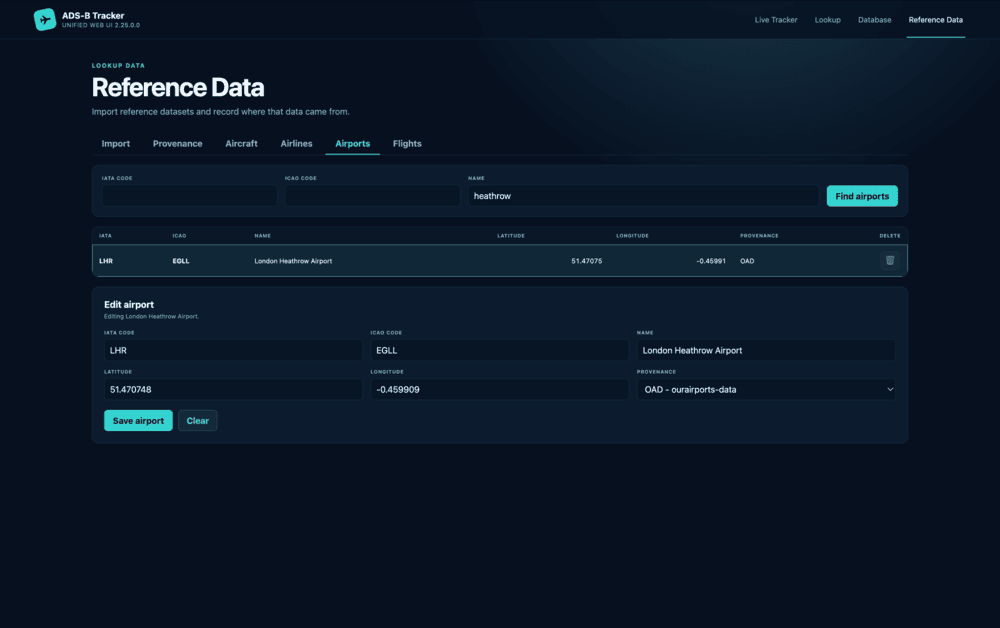
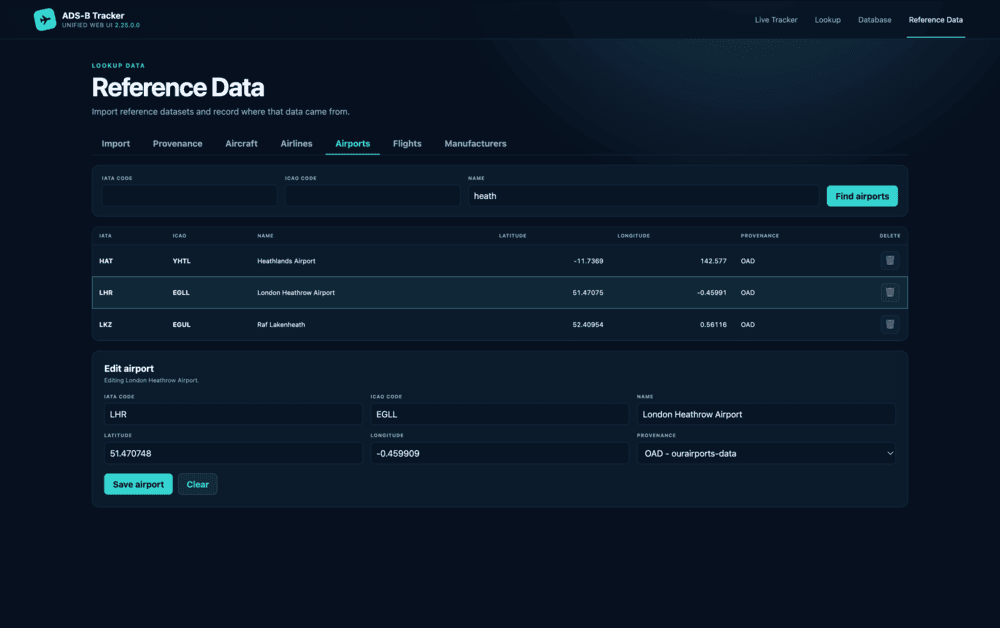
Implement manufacturer reference data maintenance

diff --git a/src/BaseStationReader.TrackerHub/wwwroot/app.css b/src/BaseStationReader.TrackerHub/wwwroot/app.css
@@ -495,6 +495,7 @@ tbody tr.stale { background: rgba(255,113,134,.045); }
 .aircraft-filter input, .provenance-fields select { width: 100%; height: 40px; padding: 8px 10px; color: var(--text); background: #081524; border: 1px solid var(--line); border-radius: 7px; outline: none; font: inherit; line-height: normal; }
 .aircraft-filter input:focus, .provenance-fields select:focus { border-color: var(--cyan); box-shadow: 0 0 0 3px rgba(53,212,208,.12); }
 .airline-filter { grid-template-columns: 1fr 1fr 2fr auto; }
+.manufacturer-filter { grid-template-columns: 1fr auto; }
 .aircraft-table-wrap { max-height: 360px; }
 .editor-read-only { margin: 14px 0 0; color: #ffe4a3; font-size: 11px; }
 
@@ -537,6 +538,7 @@ tbody tr.stale { background: rgba(255,113,134,.045); }
     .provenance-fields { grid-template-columns: 1fr 1fr; }
     .aircraft-filter { grid-template-columns: 1fr 1fr; }
     .airline-filter { grid-template-columns: 1fr 1fr; }
+    .manufacturer-filter { grid-template-columns: 1fr auto; }
     .aircraft-filter .primary-button { grid-column: 1 / -1; }
 }
 
@@ -562,6 +564,7 @@ tbody tr.stale { background: rgba(255,113,134,.045); }
     .provenance-fields label.wide { grid-column: auto; }
     .aircraft-filter { grid-template-columns: 1fr; }
     .airline-filter { grid-template-columns: 1fr; }
+    .manufacturer-filter { grid-template-columns: 1fr; }
     .aircraft-filter .primary-button { grid-column: auto; }
     .plotly-path.scene { min-height: 540px; }
     .radar-tab-heading { align-items: stretch; flex-direction: column; }

diff --git a/src/BaseStationReader.TrackerHub/Services/ManufacturerReferenceService.cs b/src/BaseStationReader.TrackerHub/Services/ManufacturerReferenceService.cs
@@ -1,0 +1,48 @@
+#nullable enable
+
+using BaseStationReader.BusinessLogic.Database;
+using BaseStationReader.Data;
+using BaseStationReader.Entities.Api;
+using BaseStationReader.Interfaces.Logging;
+using Microsoft.EntityFrameworkCore;
+
+namespace BaseStationReader.TrackerHub.Services;
+
+public sealed class ManufacturerReferenceService(
+    IDbContextFactory<BaseStationReaderDbContext> contextFactory,
+    TrackingRuntime runtime,
+    ITrackerLogger logger) : IManufacturerReferenceService
+{
+    public async Task<List<Manufacturer>> FindAsync(
+        string? name,
+        CancellationToken cancellationToken = default)
+    {
+        var cleanName = name?.Trim().ToUpperInvariant() ?? "";
+        await using var context = await contextFactory.CreateDbContextAsync(cancellationToken);
+        return await new DatabaseManagementFactory(logger, context, 0).ManufacturerManager
+            .ListAsync(x => cleanName == "" || x.Name.ToUpper().Contains(cleanName));
+    }
+
+    public async Task<Manufacturer> SaveAsync(
+        Manufacturer manufacturer,
+        CancellationToken cancellationToken = default)
+    {
+        Manufacturer? saved = null;
+        await runtime.ExecuteWhileIdleAsync(async () =>
+        {
+            await using var context = await contextFactory.CreateDbContextAsync(cancellationToken);
+            var manager = new DatabaseManagementFactory(logger, context, 0).ManufacturerManager;
+            saved = manufacturer.Id == 0
+                ? await manager.AddAsync(manufacturer.Name, manufacturer.ProvenanceId)
+                : await manager.UpdateAsync(manufacturer.Id, manufacturer.Name, manufacturer.ProvenanceId);
+        }, cancellationToken);
+        return saved!;
+    }
+
+    public Task DeleteAsync(int id, CancellationToken cancellationToken = default)
+        => runtime.ExecuteWhileIdleAsync(async () =>
+        {
+            await using var context = await contextFactory.CreateDbContextAsync(cancellationToken);
+            await new DatabaseManagementFactory(logger, context, 0).ManufacturerManager.DeleteAsync(id);
+        }, cancellationToken);
+}

diff --git a/src/BaseStationReader.BusinessLogic/Database/ManufacturerManager.cs b/src/BaseStationReader.BusinessLogic/Database/ManufacturerManager.cs
@@ -78,5 +78,30 @@ namespace BaseStationReader.BusinessLogic.Database
 
             return manufacturer;
         }
+
+        public async Task<Manufacturer> UpdateAsync(int id, string name, int provenanceId)
+        {
+            var manufacturer = await _context.Manufacturers.FindAsync(id)
+                ?? throw new InvalidOperationException($"Manufacturer record {id} does not exist.");
+            if (!await _context.Provenance.AnyAsync(x => x.Id == provenanceId))
+                throw new InvalidOperationException($"Provenance record {provenanceId} does not exist.");
+
+            var cleanName = StringCleaner.CleanName(name);
+            if (await _context.Manufacturers.AnyAsync(x => x.Id != id && x.Name == cleanName))
+                throw new InvalidOperationException($"A manufacturer named '{cleanName}' already exists.");
+
+            manufacturer.Name = cleanName;
+            manufacturer.ProvenanceId = provenanceId;
+            await _context.SaveChangesAsync();
+            return await GetAsync(x => x.Id == id);
+        }
+
+        public async Task DeleteAsync(int id)
+        {
+            var manufacturer = await _context.Manufacturers.FindAsync(id)
+                ?? throw new InvalidOperationException($"Manufacturer record {id} does not exist.");
+            _context.Manufacturers.Remove(manufacturer);
+            await _context.SaveChangesAsync();
+        }
     }
 }

diff --git a/src/BaseStationReader.Tests/Database/ManufacturerManagerTest.cs b/src/BaseStationReader.Tests/Database/ManufacturerManagerTest.cs
@@ -65,5 +65,22 @@ namespace BaseStationReader.Tests.Database
             await Assert.ThrowsExactlyAsync<InvalidOperationException>(() =>
                 _manager.AddAsync("Missing provenance", 999));
         }
+
+        [TestMethod]
+        public async Task UpdateTestAsync()
+        {
+            var manufacturer = await _manager.GetAsync(x => x.Name == Name);
+            var updated = await _manager.UpdateAsync(manufacturer.Id, "Boeing", manufacturer.ProvenanceId);
+
+            Assert.AreEqual("Boeing", updated.Name);
+        }
+
+        [TestMethod]
+        public async Task DeleteTestAsync()
+        {
+            var manufacturer = await _manager.GetAsync(x => x.Name == Name);
+            await _manager.DeleteAsync(manufacturer.Id);
+            Assert.IsEmpty(await _manager.ListAsync(x => true));
+        }
     }
 }

diff --git a/src/BaseStationReader.TrackerHub/Program.cs b/src/BaseStationReader.TrackerHub/Program.cs
@@ -167,6 +167,7 @@ namespace BaseStationReader.TrackerHub
                 builder.Services.AddScoped<IAirlineReferenceService, AirlineReferenceService>();
                 builder.Services.AddScoped<IAirportReferenceService, AirportReferenceService>();
                 builder.Services.AddScoped<IFlightReferenceService, FlightReferenceService>();
+                builder.Services.AddScoped<IManufacturerReferenceService, ManufacturerReferenceService>();
                 builder.Services.AddHttpClient<IMapboxStaticMapService, MapboxStaticMapService>(client =>
                     client.Timeout = TimeSpan.FromSeconds(30));
 

diff --git a/src/BaseStationReader.Interfaces/Database/IManufacturerManager.cs b/src/BaseStationReader.Interfaces/Database/IManufacturerManager.cs
@@ -6,6 +6,8 @@ namespace BaseStationReader.Interfaces.Database
     public interface IManufacturerManager
     {
         Task<Manufacturer> AddAsync(string name, int provenanceId = 0);
+        Task<Manufacturer> UpdateAsync(int id, string name, int provenanceId);
+        Task DeleteAsync(int id);
         Task<Manufacturer> GetAsync(Expression<Func<Manufacturer, bool>> predicate);
         Task<List<Manufacturer>> ListAsync(Expression<Func<Manufacturer, bool>> predicate);
     }

diff --git a/src/BaseStationReader.TrackerHub/Services/IManufacturerReferenceService.cs b/src/BaseStationReader.TrackerHub/Services/IManufacturerReferenceService.cs
@@ -1,0 +1,12 @@
+#nullable enable
+
+using BaseStationReader.Entities.Api;
+
+namespace BaseStationReader.TrackerHub.Services;
+
+public interface IManufacturerReferenceService
+{
+    Task<List<Manufacturer>> FindAsync(string? name, CancellationToken cancellationToken = default);
+    Task<Manufacturer> SaveAsync(Manufacturer manufacturer, CancellationToken cancellationToken = default);
+    Task DeleteAsync(int id, CancellationToken cancellationToken = default);
+}

diff --git a/README.md b/README.md
@@ -162,10 +162,14 @@ The **Reference Data** area provides tools for maintaining the locally curated i
 
 - Import
 - Provenance
-- Aircraft
-- Airlines
-- Airports
-- Flights
+- Data Management:
+  - Aircraft
+  - Airlines
+  - Airports
+  - Flights
+  - Manufacturers
+
+The data management tabs allow search, editing, deletion and addition of reference data records. Each record remains linked to a provenance record describing its source. Reference data records remain searchable during live tracking, but cannot be added, changed or deleted until the session ends.
 
 The **Aircraft**, **Airlines**, **Airports** and **Flights** tabs allow search, editing, deletion and addition of reference data records. Each record remains linked to a provenance record describing its source. Reference data records remain searchable during live tracking, but cannot be added, changed or deleted until the session ends.
 
